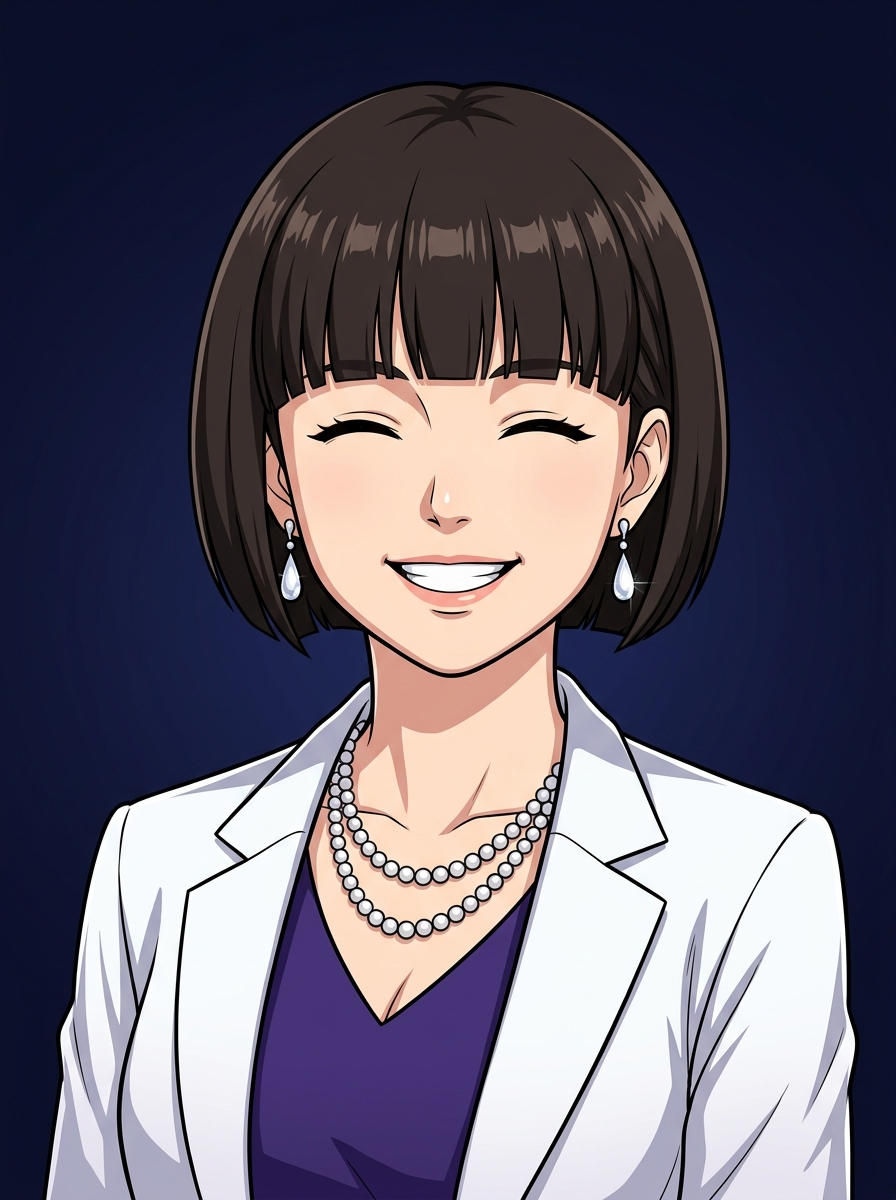
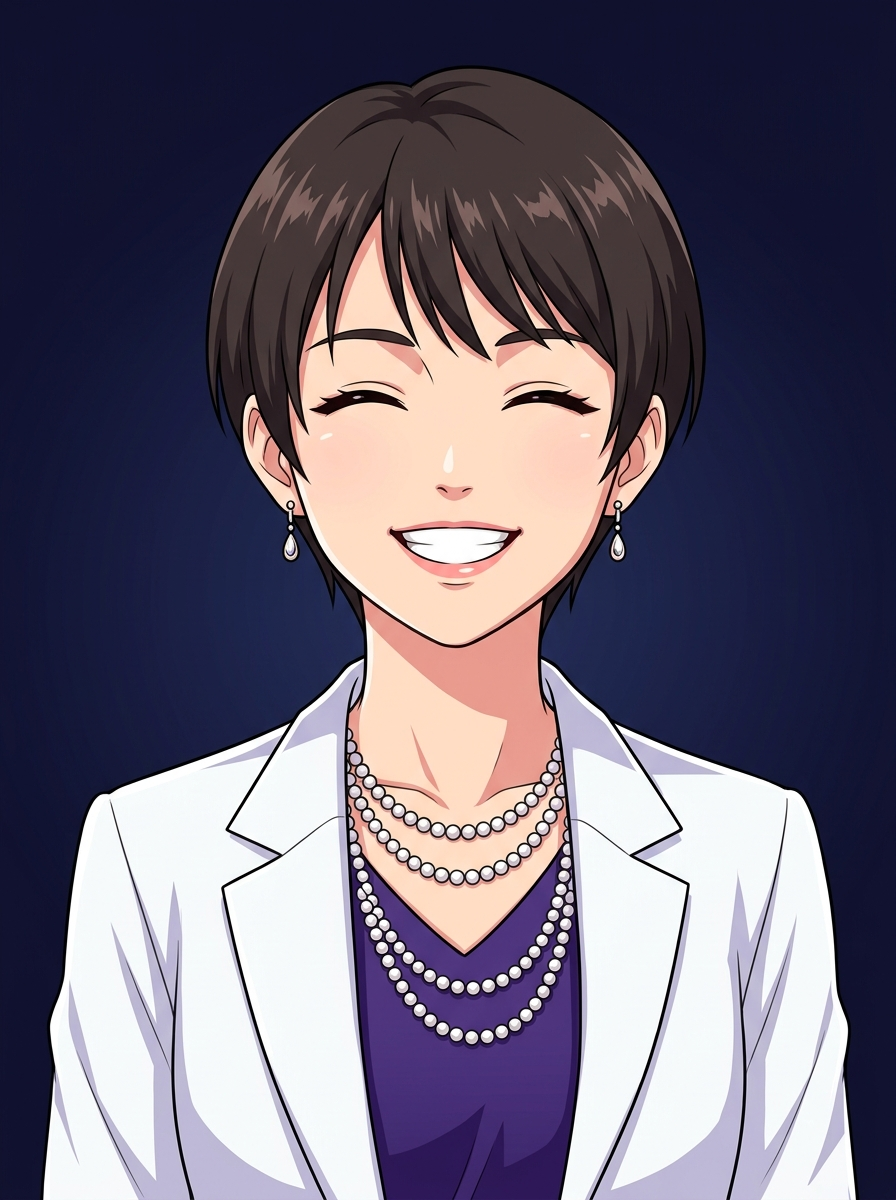
feat: じゃんけん対人戦(両者選択→総取り) + 女性Kピクシーカット + カップルch画像更新

diff --git a/index.html b/index.html
@@ -624,8 +624,8 @@ function showTap(){const ov=document.getElementById('mg-overlay'),card=document.
 function startTap(){const btn=document.getElementById('tap-start-btn');if(btn)btn.remove();const ta=document.getElementById('ta');ta.style.pointerEvents='auto';ta.style.opacity='1';ta.onclick=doTap;window._ts.started=true;document.getElementById('tt').textContent='3.0秒';let t=3000;const tm=setInterval(()=>{t-=100;if(t<=0||window._ts.ended){clearInterval(tm);finTap();return;}document.getElementById('tt').textContent=(t/1000).toFixed(1)+'秒';},100);}
 function doTap(){const s=window._ts;if(!s||!s.started||s.ended)return;s.count++;document.getElementById('tc').textContent=`${s.count}/${s.tgt}`;if(s.count>=s.tgt){s.ended=true;finTap();}}
 function finTap(){const s=window._ts;if(!s)return;s.ended=true;const ok=s.count>=s.tgt;setTimeout(()=>{document.getElementById('mg-overlay').classList.remove('show');if(ok){spawnConfetti();applyFx({money:40,motivation:20,contribution:15});showEvent('🎊','連打成功！',`${s.count}回達成！`,{money:40,motivation:20,contribution:15});}else{applyFx({money:-20,motivation:-15,contribution:0});showEvent('😵','連打失敗...',`${s.count}/${s.tgt}回...`,{money:-20,motivation:-15});}},500);}
-function showJanken(){const opps=players.filter((p,i)=>i!==currentPlayerIndex&&!p.finished),opp=opps[Math.floor(Math.random()*opps.length)];window._jo=opp;const ov=document.getElementById('mg-overlay'),card=document.getElementById('mg-card');card.innerHTML=`<h3>じゃんけん！</h3><p>${players[currentPlayerIndex].name} vs ${opp.name}</p><div class="janken-choices"><button class="janken-btn" onclick="doJK('r')">✊</button><button class="janken-btn" onclick="doJK('s')">✌️</button><button class="janken-btn" onclick="doJK('p')">🖐️</button></div>`;ov.classList.add('show');}
-function doJK(c){const cs=['r','s','p'],oc=cs[Math.floor(Math.random()*3)];let out;if(c===oc)out='d';else if((c==='r'&&oc==='s')||(c==='s'&&oc==='p')||(c==='p'&&oc==='r'))out='w';else out='l';document.querySelectorAll('.janken-btn').forEach(b=>b.disabled=true);setTimeout(()=>{document.getElementById('mg-overlay').classList.remove('show');if(out==='w'){spawnConfetti();applyFx({money:50,motivation:20,contribution:15});showEvent('🎉','勝利！',`${window._jo.name}に勝った！`,{money:50,motivation:20,contribution:15});}else if(out==='l'){applyFx({money:-30,motivation:-15,contribution:-5});showEvent('😭','敗北...',`${window._jo.name}に負けた...`,{money:-30,motivation:-15,contribution:-5});}else{applyFx({money:10,motivation:10,contribution:5});showEvent('🤝','あいこ！','引き分け！',{money:10,motivation:10,contribution:5});}},1200);}
+function showJanken(){const opps=players.filter((p,i)=>i!==currentPlayerIndex&&!p.finished),opp=opps[Math.floor(Math.random()*opps.length)];window._jo={opp,phase:'p1',p1choice:null,p2choice:null};const ov=document.getElementById('mg-overlay'),card=document.getElementById('mg-card');card.innerHTML=`<h3>⚔️ じゃんけんバトル！</h3><p style="font-size:1.1rem;margin:8px 0">${players[currentPlayerIndex].name} vs ${opp.name}</p><p style="color:#ffd700;font-size:0.9rem">${players[currentPlayerIndex].name} の番！（${opp.name}は見ないで！）</p><div class="janken-choices"><button class="janken-btn" onclick="doJK('r')">✊</button><button class="janken-btn" onclick="doJK('s')">✌️</button><button class="janken-btn" onclick="doJK('p')">🖐️</button></div>`;ov.classList.add('show');}
+function doJK(c){const s=window._jo;if(s.phase==='p1'){s.p1choice=c;s.phase='p2';const card=document.getElementById('mg-card');card.innerHTML=`<h3>⚔️ じゃんけんバトル！</h3><p style="font-size:1.1rem;margin:8px 0">${players[currentPlayerIndex].name} vs ${s.opp.name}</p><p style="color:#00f5ff;font-size:0.9rem">${s.opp.name} の番！（${players[currentPlayerIndex].name}は見ないで！）</p><div class="janken-choices"><button class="janken-btn" onclick="doJK('r')">✊</button><button class="janken-btn" onclick="doJK('s')">✌️</button><button class="janken-btn" onclick="doJK('p')">🖐️</button></div>`;}else if(s.phase==='p2'){s.p2choice=c;document.querySelectorAll('.janken-btn').forEach(b=>b.disabled=true);const icons={r:'✊',s:'✌️',p:'🖐️'};const card=document.getElementById('mg-card');card.innerHTML=`<h3>⚔️ 結果発表！</h3><div style="display:flex;align-items:center;justify-content:center;gap:24px;font-size:3rem;margin:20px 0"><div style="text-align:center"><div style="font-size:0.8rem;margin-bottom:4px">${players[currentPlayerIndex].name}</div>${icons[s.p1choice]}</div><div style="font-size:1.5rem;color:#ffd700">VS</div><div style="text-align:center"><div style="font-size:0.8rem;margin-bottom:4px">${s.opp.name}</div>${icons[s.p2choice]}</div></div>`;let out;if(s.p1choice===s.p2choice)out='d';else if((s.p1choice==='r'&&s.p2choice==='s')||(s.p1choice==='s'&&s.p2choice==='p')||(s.p1choice==='p'&&s.p2choice==='r'))out='w';else out='l';setTimeout(()=>{document.getElementById('mg-overlay').classList.remove('show');const p=players[currentPlayerIndex];if(out==='w'){const stolen=s.opp.money;s.opp.money=0;p.money+=stolen;spawnConfetti();showEvent('🎉','勝利！総取り！',`${s.opp.name}から💰${stolen}を奪った！`,{money:stolen});}else if(out==='l'){const stolen=p.money;p.money=0;s.opp.money+=stolen;showEvent('😭','敗北...全額没収',`${s.opp.name}に💰${stolen}を奪われた...`,{money:-stolen});}else{showEvent('🤝','あいこ！','引き分け！再戦なし！',{});}},2000);}}
 
 // VFX
 function spawnConfetti(){const cls=['#ff4757','#3742fa','#2ed573','#ffa502','#b967db','#00f5ff','#39ff14'];for(let i=0;i<30;i++){const p=document.createElement('div');p.className='confetti-piece';p.style.left=Math.random()*100+'%';p.style.background=cls[Math.floor(Math.random()*cls.length)];p.style.width=(Math.random()*6+4)+'px';p.style.height=(Math.random()*6+4)+'px';p.style.borderRadius=Math.random()>.5?'50%':'2px';p.style.animationDuration=(Math.random()*2+2)+'s';p.style.animationDelay=Math.random()*.3+'s';document.body.appendChild(p);setTimeout(()=>p.remove(),4000);}}